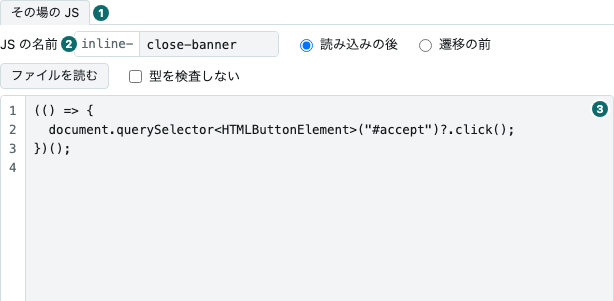
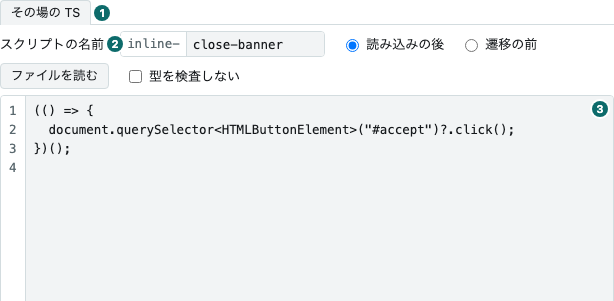
fix: 箱の名前を「その場の TS」「スクリプトの名前」にする（CAPTURE-83） (#66)
新しいクロールの画面の箱は、compile の段で strict の TypeScript として検査されるのに、
「その場の JS」「JS の名前」と名乗っていた。TypeScript を書けると気づけず、素の JS を
書くと TS7006 で落ちて理由が読めなかった。

- 画面の字（タブ・欄・aria-label・注記・「書きかけの TS」）と、docs・コメント・試験の名前を
  替えた。動きと API の欄、コードの名前（start-tab-js・.start-js）は変えない
- JS になるのは変換の後なので、走った JS・変換後の JS・束ねた JS・dashboard 自身の素の JS は
  そのまま
- check:terms に規則 8 を足し、古い呼び名を赤にする
- 絵を撮り直した（start-js・start-rules・start-read と shots.json）

Claude-Session: https://claude.ai/code/session_01TRqfaPZ6gSV5QQNmn7s8EV

Changed region(s): [[0.0, 0.0897, 0.4642, 0.2093], [0.4642, 0.0897, 0.8974, 0.2093], [0.0928, 0.0, 0.1857, 0.0598]]

diff --git a/public/app.js b/public/app.js
@@ -313,11 +313,11 @@ const ranOf = (one) => {
     item.append(tag("span", script.id, "mono"));
     if (script.sites.length > 0) item.append(siteChip(script.sites));
     item.append(tag("span", where, "muted"));
-    // その場の JS は、直して撮り直せるように欄へ戻せる（台帳のスクリプトは台帳に在る）。source は詳しい所に
+    // その場の TS は、直して撮り直せるように欄へ戻せる（台帳のスクリプトは台帳に在る）。source は詳しい所に
     // 無いので、押したときに名前の口から取る
     if (script.inline !== undefined) {
       item.append(button("欄に戻す", () => void putBack(one.crawlId, script.inline.name)));
-      // 型の誤りの在るその場の JS には、直し方を訊く道も（押したときだけ Claude を呼ぶ）
+      // 型の誤りの在るその場の TS には、直し方を訊く道も（押したときだけ Claude を呼ぶ）
       if (hasErrorsIn(one.diagnosed, script.id)) item.append(...fixOf(one.crawlId, script));
     } else {
       // 走った版を読む。番号は使い回されうるので sha256 の頭も渡し、読む所が食い違いを言う
@@ -999,7 +999,7 @@ const drawValues = () => {
 };
 
 /**
- * その場の JS を欄に戻し、新しいクロールの画面へ移る。直して撮り直すため。**起点とスクリプトの選びは触らない。**
+ * その場の TS を欄に戻し、新しいクロールの画面へ移る。直して撮り直すため。**起点とスクリプトの選びは触らない。**
  * source は詳しい所に無い（capture-ledger v0.59.0）ので、名前の口から取る。
  */
 const putBack = async (crawlId, name) => {
@@ -1014,14 +1014,14 @@ const putBack = async (crawlId, name) => {
 };
 
 /**
- * その場の JS を新しいクロールの画面の欄に入れ、その画面へ移る。「欄に戻す」と「直した版を欄に戻す」が使う
+ * その場の TS を新しいクロールの画面の欄に入れ、その画面へ移る。「欄に戻す」と「直した版を欄に戻す」が使う
  * （直した版は、名前と phase を元のまま、source だけを直した物にする）。**起点とスクリプトの選びは触らない。**
  */
 const intoForm = (name, phase, source) => {
   $("start-inline-name").value = name;
   $(phase === "preload" ? "start-inline-preload" : "start-inline-behavior").checked = true;
   $("start-inline-source").value = source;
-  $("start-answer").hidden = true; // 前の答えは、戻した JS の物ではない
+  $("start-answer").hidden = true; // 前の答えは、戻した TS の物ではない
   location.hash = "start";
   // 画面とタブを今出す —— 隠れた箱には focus が効かない（hashchange が画面を出すのは、この後）
   show("start");
@@ -1305,7 +1305,7 @@ const startCrawl = async (event) => {
   line.hidden = false;
   line.className = `start-answer state ${said.kind}`;
   line.textContent = said.text;
-  // 起点は消す。その場の JS は残す —— 直して撮り直すことが多い。サイト用のチェックは起点に合わせる
+  // 起点は消す。その場の TS は残す —— 直して撮り直すことが多い。サイト用のチェックは起点に合わせる
   if (status === 202) {
     $("start-seeds").value = "";
     syncPicks();
@@ -2001,7 +2001,7 @@ const askReplace = (at, doc, lines) => {
   const box = at.ask;
   box.hidden = false;
   box.replaceChildren(
-    tag("span", `新しいクロールの欄に書きかけの JS（${count(lines)} 行）があります。`),
+    tag("span", `新しいクロールの欄に書きかけの TS（${count(lines)} 行）があります。`),
     button("置き換える", () => {
       box.hidden = true;
       putTemplate(doc, { replace: true, at });
@@ -2013,7 +2013,7 @@ const askReplace = (at, doc, lines) => {
 };
 
 /**
- * スクリプトの 1 版を、その場の JS の欄に写して新しいクロールの画面へ移る。**書きかけを黙って消さない** —— 欄が空で
+ * スクリプトの 1 版を、その場の TS の欄に写して新しいクロールの画面へ移る。**書きかけを黙って消さない** —— 欄が空で
  * なければ、置き換えるかを本文の上で訊く（replace は「置き換える」を押したときだけ true。訊くのは at の所）。
  * 入れ方は「欄に戻す」（intoForm）と同じ。
  */
@@ -2041,10 +2041,10 @@ const putTemplate = (doc, { replace = false, at = IN_CATALOG } = {}) => {
       ? "id を替える所はありませんでした。"
       : `${changed.join("・")} 行目の id を inline-${name} に替えました。`) +
     `台帳の ${doc.id} は外しました（両方走ると 2 回走ります）。` +
-    // その場の JS は札を持たない。スクリプトの冒頭の見分けが、ほかのサイトでは何もさせない
+    // その場の TS は札を持たない。スクリプトの冒頭の見分けが、ほかのサイトでは何もさせない
     (doc.sites.length === 0
       ? ""
-      : `札（${doc.sites.join("・")}）は写しに付きません。その場の JS は、どの起点でも走ります。`);
+      : `札（${doc.sites.join("・")}）は写しに付きません。その場の TS は、どの起点でも走ります。`);
   location.hash = "start";
   // 画面とタブを今出す —— 隠れた箱には focus が効かない（hashchange が画面を出すのは、この後）。
   // 読む窓は閉じない —— タブで元と見比べられる
@@ -2073,7 +2073,7 @@ const clearPlace = (at) => {
 };
 
 /**
- * 右の列のタブ。**JS の箱は隠すだけ** —— 書きかけも、流した位置も、字の位置も残る（Chrome 152 で実測）。
+ * 右の列のタブ。**TS の箱は隠すだけ** —— 書きかけも、流した位置も、字の位置も残る（Chrome 152 で実測）。
  * 読む窓のタブと × は、何か開いている間だけ出る。
  */
 const showStartTab = (tab) => {

diff --git a/public/index.html b/public/index.html
@@ -48,13 +48,13 @@
       </section>
 
       <!--
-        新しいクロールの画面。左に設定、右にその場の JS。画面は窓の高さに収め、JS の箱がその残りを全部使う
+        新しいクロールの画面。左に設定、右にその場の TS。画面は窓の高さに収め、TS の箱がその残りを全部使う
         （巨大な JS を貼って、読んで、少し直して始めるため）。送るのは起点の URL・「このページだけ
         （maxDepth: 0）」・走らせるもので、ほかは台帳の既定。走らせるものは、既定のまま（起点で決まる
-        既定の顔ぶれを全部選び、その場の JS が空）なら送らない。URL も JS の名前も検査しない（台帳が 400 で言う）。
+        既定の顔ぶれを全部選び、その場の TS が空）なら送らない。URL もスクリプトの名前も検査しない（台帳が 400 で言う）。
         本文が上限（/healthz の writeLimit）を超えたら、送る前に止める。答えは左の列の下に 1 行で。
-        202 と 409 は一覧の画面へ移り、行に印を付ける。右の列はタブで、その場の JS と読む窓（スクリプトの 1 版か
-        受け皿の型を、チェックの横の「読む」で開く）を切り替える。画面は移らず、JS の箱は隠れるだけ。
+        202 と 409 は一覧の画面へ移り、行に印を付ける。右の列はタブで、その場の TS と読む窓（スクリプトの 1 版か
+        受け皿の型を、チェックの横の「読む」で開く）を切り替える。画面は移らず、TS の箱は隠れるだけ。
       -->
       <section id="face-start" hidden>
         <form id="start" class="start" autocomplete="off">
@@ -97,15 +97,15 @@
             </div>
             <p id="start-answer" class="start-answer" hidden></p>
             <!--
-              書き方の注意は左に置く。右の列の高さは、全部 JS の箱に渡す。JS の名前の綴りは台帳の決まりの写し
+              書き方の注意は左に置く。右の列の高さは、全部 TS の箱に渡す。スクリプトの名前の綴りは台帳の決まりの写し
               （capture-ledger の POST /api/crawls・inline.name）で、dashboard は検査しない（違えば台帳が 400 で言う）
             -->
             <p class="start-hint">
               strict の TypeScript として型を検査します（最初の段の compile）。IIFE で包み、要素には型を付けて
               <code>?.</code> で。束ねた JS は「型を検査しない」で（1 行目に <code>// @ts-nocheck</code> が入る）。
-              <code>export</code> は書かない（ページで構文エラーになり、何も走らない）。その場の JS は、チェックしたスクリプトより先に走ります。
-              JS の名前（<code>inline-</code> の後ろ）は、英小文字で始め、英小文字・数字・<code>-</code> で 57 字まで。
-              <code>inline-</code> を付けた物がこの JS の id になります。
+              <code>export</code> は書かない（ページで構文エラーになり、何も走らない）。その場の TS は、チェックしたスクリプトより先に走ります。
+              スクリプトの名前（<code>inline-</code> の後ろ）は、英小文字で始め、英小文字・数字・<code>-</code> で 57 字まで。
+              <code>inline-</code> を付けた物がこのスクリプトの id になります。
               <!-- data-read: ふつうに押せば右の列で開く（app.js）。修飾キーならスクリプト集の画面を別のタブで -->
               <a href="#scripts/types/host.d.ts" data-read>受け皿 <code>__bh</code> の型を読む</a>
             </p>
@@ -113,14 +113,14 @@
           <div class="start-code">
             <!-- 右の列のタブ。読む窓のタブと × は、スクリプトの「読む」で開いている間だけ出る（app.js の showStartTab） -->
             <div class="start-tabs">
-              <button type="button" id="start-tab-js" class="on">その場の JS</button>
+              <button type="button" id="start-tab-js" class="on">その場の TS</button>
               <button type="button" id="start-tab-rules" hidden>辿り方</button>
               <button type="button" id="start-tab-read" hidden></button>
               <button type="button" id="start-tab-close" aria-label="読む窓を閉じる" hidden>×</button>
             </div>
             <div id="start-js" class="start-js">
               <div class="start-row">
-                <label for="start-inline-name">JS の名前</label>
+                <label for="start-inline-name">スクリプトの名前</label>
                 <span class="start-name"
                   ><span class="prefix">inline-</span
                   ><input type="text" id="start-inline-name" spellcheck="false" placeholder="close-banner"
@@ -140,7 +140,7 @@
                   id="start-inline-source"
                   wrap="off"
                   spellcheck="false"
-                  aria-label="その場の JS"
+                  aria-label="その場の TS"
                   placeholder="(() => {&#10;  document.querySelector&lt;HTMLButtonElement&gt;(&quot;#accept&quot;)?.click();&#10;})();"
                 ></textarea>
               </div>

diff --git a/public/start.js b/public/start.js
@@ -8,7 +8,7 @@
  * 片方だけが変わった日に、dashboard が通すのに台帳が断る（または逆）形になる。
  */
 
-/** 走らせるものの欄が、何も選んでいない形（台帳にスクリプトが無く、その場の JS も無い）。 */
+/** 走らせるものの欄が、何も選んでいない形（台帳にスクリプトが無く、その場の TS も無い）。 */
 const NOTHING_CHOSEN = {
   catalog: [],
   picked: [],
@@ -53,10 +53,10 @@ export const defaultIds = (scripts, hosts) =>
 
 /**
  * 走らせるもの（台帳の `scripts`）。**既定のまま —— 選んだ物が既定の顔ぶれ（`defaultIds`）と同じで、
- * その場の JS が空 —— なら送らない**（`undefined`）。台帳も起点から同じ物を選ぶので、省いても走る物は
+ * その場の TS が空 —— なら送らない**（`undefined`）。台帳も起点から同じ物を選ぶので、省いても走る物は
  * 変わらない。省くのは、台帳にスクリプトが無いときと、起点に合う物が無いときの 400 を台帳に言わせるため。
  *
- * 送るときは、その場の JS を先に、選んだスクリプトを台帳の並び（`catalog` の順）で。全部外せば `[]` ——
+ * 送るときは、その場の TS を先に、選んだスクリプトを台帳の並び（`catalog` の順）で。全部外せば `[]` ——
  * 「何も走らせない」。source は削らない —— 台帳が打つ sha256 は、書いたバイト列の物。名前は前後の
  * 空白だけ落とす。綴りは検査しない（台帳が 400 で言う）。
  */
@@ -303,7 +303,7 @@ export const startAnswer = (status, answer) => {
       ? answer.names
       : Array.isArray(answer.secrets)
         ? answer.secrets.map((s) => (s.path === undefined ? String(s.name) : `${String(s.name)}（${String(s.path)}）`))
-        : typeof answer.script === "string" // 宣言の形が読めないその場の JS（invalid params）
+        : typeof answer.script === "string" // 宣言の形が読めないその場の TS（invalid params）
           ? [answer.script]
           : Array.isArray(answer.seeds)
             ? answer.seeds
@@ -326,7 +326,7 @@ export const startAnswer = (status, answer) => {
 export const bodyBytes = (body) => new TextEncoder().encode(JSON.stringify(body)).length;
 
 /**
- * 欄の下の 1 行。行数は JS の、割合は送る本文の。**上限を超えたら押せない**（over）。
+ * 欄の下の 1 行。行数は TS の、割合は送る本文の。**上限を超えたら押せない**（over）。
  * 上限は `/healthz` の `writeLimit`（dashboard が知らなければ Infinity を渡し、門に任せる）。
  */
 export const sizeOf = (source, bytes, limit) => ({
@@ -354,8 +354,8 @@ export const withNocheck = (source, on) => {
 };
 
 /**
- * スクリプト 1 本を、その場の JS の下敷きにする（スクリプト集の画面の「下敷きにする」）。**替えるのは 1 つの
- * 形だけ** —— `__bh.opts["<id>"]` の id を `inline-<名前>` に。台帳はその場の JS を `inline-<名前>` の id で
+ * スクリプト 1 本を、その場の TS の下敷きにする（スクリプト集の画面の「下敷きにする」）。**替えるのは 1 つの
+ * 形だけ** —— `__bh.opts["<id>"]` の id を `inline-<名前>` に。台帳はその場の TS を `inline-<名前>` の id で
  * 走らせ、設定もその id の下に置くので、替えないと元の id の設定を読む。報告（`__bh.report(data)`）とログの行は
  * id を取らない —— 誰の行かは BrowserHive が付ける（capture-scripts v0.7.0 の受け皿から）。
  *

diff --git a/public/app.css b/public/app.css
@@ -546,7 +546,7 @@ tr.head.spot td:first-child {
   box-shadow: inset 3px 0 0 var(--accent);
 }
 
-/* ── 新しいクロールの画面 ── 左に設定、右にその場の JS。窓の高さに収め、ページは縦に流さない ─ */
+/* ── 新しいクロールの画面 ── 左に設定、右にその場の TS。窓の高さに収め、ページは縦に流さない ─ */
 /* 収めるのは新しいクロールの画面にいる間だけ（app.js の show が body に data-face を書く） */
 body[data-face="start"] {
   height: 100dvh;
@@ -591,7 +591,7 @@ body[data-face="start"] main {
 }
 
 /*
- * 右の列: タブと、その下の中身 1 つ（その場の JS か読む窓）。中身が残りの高さを全部使う。列は右の列の幅に
+ * 右の列: タブと、その下の中身 1 つ（その場の TS か読む窓）。中身が残りの高さを全部使う。列は右の列の幅に
  * 留める —— 既定の auto の列は読む窓の長い行の幅まで伸び、本文が横に流れず窓の右端で切れた
  */
 .start-code {
@@ -605,7 +605,7 @@ body[data-face="start"] main {
 
 /*
  * display を書くと hidden 属性が効かなくなるので、隠すときを書き足す（.reading-ask と同じ）。
- * その場の JS と読む窓の見た目は class で書く —— id で書くと、id の重みがこの規則に勝ち、2 つが両方出る
+ * その場の TS と読む窓の見た目は class で書く —— id で書くと、id の重みがこの規則に勝ち、2 つが両方出る
  */
 .start-js[hidden],
 .start-read[hidden],
@@ -613,7 +613,7 @@ body[data-face="start"] main {
   display: none;
 }
 
-/* その場の JS: 名前・口・ファイル・型の行、箱（残りの高さを全部）、大きさの行 */
+/* その場の TS: 名前・口・ファイル・型の行、箱（残りの高さを全部）、大きさの行 */
 .start-js {
   display: grid;
   grid-template-rows: auto minmax(0, 1fr) auto;
@@ -888,7 +888,7 @@ body[data-face="start"] main {
   cursor: pointer;
 }
 
-/* 走らせるもの: スクリプトのチェックと、その場の JS（名前・口・コード・ファイルを読む） */
+/* 走らせるもの: スクリプトのチェックと、その場の TS（名前・口・コード・ファイルを読む） */
 .start-run {
   display: flex;
   flex-direction: column;

diff --git a/public/fix.js b/public/fix.js
@@ -6,7 +6,7 @@
  *
  * - `GET /api/crawls/:id/diagnostics` —— 行に固定した組み合わせを ts-compile-service に送り直した型の誤り。
  *   Claude は呼ばない。台帳が ts-compile の宛先を持たない配備には、口ごと無い（Fastify の 404）
- * - `POST /api/crawls/:id/inline/:name/fix` —— その場の JS の直し方を Claude に訊く。**検査に通った案だけ**が
+ * - `POST /api/crawls/:id/inline/:name/fix` —— その場の TS の直し方を Claude に訊く。**検査に通った案だけ**が
  *   200 で返り、Claude を呼んだ答えには回数と費用が載る
  *
  * 台帳の文（`error`）は言い換えない。状態の数と一緒に、そのまま出す。

diff --git a/docs-site/src/content/docs/ja/development.md b/docs-site/src/content/docs/ja/development.md
@@ -91,14 +91,14 @@ dashboard が読む設定は `sandbox/sandbox.env` だけで、あなたの `.en
 | スクリプトを変える | 台本の `catalog` を書き換える。1 版に 1 つで、`sandbox/catalog/` のファイル（capture-scripts v0.7.0 のスクリプトと受け皿の型の写し）を名指す。`sha256` と `bytes` は代役が台帳と同じくファイルから数え、一覧は各 id に 1 行（有効な版の中の最新、無ければ最新版を `enabled: false` で）。autoscroll v2 は同じファイルで `options` だけが違う版。autofetch は `enabled: false` —— カタログに `"default": false` と書いたスクリプトを台帳が持つ姿で、名指したときだけ走る。`sites`（札）のある版はサイト用のスクリプトで、既定で走るのは起点のどれかが札のホストにあるときだけ。`egov-law-search`（札 `laws.e-gov.go.jp`）も capture-scripts の写しで、本物の台帳と同じ版。版の `params` は宣言（capture-scripts の `catalog.json` の `params`）で、一覧と 1 版の口に出る —— `egov-law-search` は変数 `query` を宣言する。`hostTypes` は受け皿の型で、消すと型を取り込んでいない台帳になる。写しは `check:terms` から外してある（別の repo の言葉で、直すと行番号が実物とずれる） |
 | 別の WACZ を並べる | `SANDBOX_WACZ_DIR=<dir> npm run sandbox`（相対なら、この repo から。例: `../wacz-validator/samples`）。代役と daemon の両方に同じ置き場が入る |
 | wacz-validator の更新を daemon に入れる | `npm run sandbox:build`。`npm run sandbox` は、image が無いときにしか建てない |
-| 新しいクロールの画面を試す | 新しいクロールの画面から始める。代役は受けた行を台本の `submit.runsSeconds` 秒だけ走らせてから完走にする。走っている間にもう 1 度押すと 409、読めない URL は 400。走らせるもの（スクリプトのチェックとその場の JS）も台帳と同じ形で受け、知らないスクリプトの id・同じ id の重ね・名前の綴り・起点に合わないサイト用のスクリプトの名指し・既定が空（台帳にスクリプトが無いか、全部が別のサイト用）は台帳と同じ文で 400。台帳の schema に無い鍵も台帳と同じ文（`body must NOT have additional properties`）で 400。行を開くと走らせたものが出る。チェックの横の「読む」は右の列に開く（代役の autoscroll は v2 で設定つき、egov-law-search は起点に laws.e-gov.go.jp が無いと押せないが読める） |
-| クロールごとの値を試す | 起点に `https://laws.e-gov.go.jp/` を書いて egov-law-search を選ぶと、変数 `query` の欄が出る。書いた値は `variables` で送られ、行を開くと「渡した値」に出る。代役は台帳 v0.67.0 と同じ順と文で 400 を言う —— 同じ名前を別の種類で宣言している（`conflicting params`）・必須の変数が無い（`missing variables`）・シークレットの名前を変数で渡している（`secrets cannot be passed as variables`）・どのスクリプトも宣言していない変数（`unknown variables`。宣言を添えないその場の JS が在れば許す）・宣言した必須のシークレットが Windmill に無い（`unknown secrets`。名前と path と `hint`）・在るが secret でない（`not a secret variable`）。その場の JS の宣言の形は台帳の schema と同じ文で、同じ名前が 2 度あれば `invalid params`。Windmill の代わりは台本の `windmillSecrets`（在る secret 変数の名前）と `windmillVariables`（在るが secret でない名前）。シークレットの宣言は、その場の JS の `inline.params` を台帳の API に直に送るときだけ試せる（画面には欄が無い）。台本のクロール `5b0c0007` は変数 `query` とシークレット `api_token` を持ち、開いた行に「渡した値」と「使ったシークレット」が出る。値は代役もどこにも書かない |
+| 新しいクロールの画面を試す | 新しいクロールの画面から始める。代役は受けた行を台本の `submit.runsSeconds` 秒だけ走らせてから完走にする。走っている間にもう 1 度押すと 409、読めない URL は 400。走らせるもの（スクリプトのチェックとその場の TS）も台帳と同じ形で受け、知らないスクリプトの id・同じ id の重ね・名前の綴り・起点に合わないサイト用のスクリプトの名指し・既定が空（台帳にスクリプトが無いか、全部が別のサイト用）は台帳と同じ文で 400。台帳の schema に無い鍵も台帳と同じ文（`body must NOT have additional properties`）で 400。行を開くと走らせたものが出る。チェックの横の「読む」は右の列に開く（代役の autoscroll は v2 で設定つき、egov-law-search は起点に laws.e-gov.go.jp が無いと押せないが読める） |
+| クロールごとの値を試す | 起点に `https://laws.e-gov.go.jp/` を書いて egov-law-search を選ぶと、変数 `query` の欄が出る。書いた値は `variables` で送られ、行を開くと「渡した値」に出る。代役は台帳 v0.67.0 と同じ順と文で 400 を言う —— 同じ名前を別の種類で宣言している（`conflicting params`）・必須の変数が無い（`missing variables`）・シークレットの名前を変数で渡している（`secrets cannot be passed as variables`）・どのスクリプトも宣言していない変数（`unknown variables`。宣言を添えないその場の TS が在れば許す）・宣言した必須のシークレットが Windmill に無い（`unknown secrets`。名前と path と `hint`）・在るが secret でない（`not a secret variable`）。その場の TS の宣言の形は台帳の schema と同じ文で、同じ名前が 2 度あれば `invalid params`。Windmill の代わりは台本の `windmillSecrets`（在る secret 変数の名前）と `windmillVariables`（在るが secret でない名前）。シークレットの宣言は、その場の TS の `inline.params` を台帳の API に直に送るときだけ試せる（画面には欄が無い）。台本のクロール `5b0c0007` は変数 `query` とシークレット `api_token` を持ち、開いた行に「渡した値」と「使ったシークレット」が出る。値は代役もどこにも書かない |
 | 規則を試す | 新しいクロールの画面で「リンクを辿る」を選ぶ。代役は台帳 v0.62.0 と同じく規則を確かめる（同じ 3 つの 400 を同じ文で、`/api/crawl-rules/check` も同じ答え）し、`/api/crawls/:id/decisions` にも答える。台本のクロール `5b0c0007` は `rules`・`decisions`・`robots` を持ち、1 度も当たらない規則が 1 本ある。**`same-site` は近似**: 代役は Public Suffix List を持たず、ホスト名の最後の 2 ラベルをサイトとする。だから `example.co.jp` と `other.co.jp` を同じサイトと読む（台帳は tldts で、そう読まない） |
 | ページとログを見る | 台本のクロールに `pages` を書く（ページの行と、BrowserHive の答えの形の `log`。`counts` は省けば行から数える）。代役は台帳の `/api/crawls/:id/pages`（`after` と `limit`。続きは本文の `next`）と `/api/crawls/:id/pages/:page/log` に答え、`failures` の要素に `page` を付ける。`after` が数字だけでない・`limit` が範囲の外なら 400。`log` の無いページは、ログを読めない理由を返す（台本の `logReason`。省けば taskId の無いページは `not-captured`、在れば `no-log`）。台本のクロール `5b0c0009` は、時間切れのページ（warn と error の行）・捨てた行と途中で切った行を持つページ・robots.txt で撮らなかったページを持つ。`pages` の無い行は一覧が空。「続きを読む」を見るなら、行に台帳の 1 回分より多いページを書く（代役の 1 回分は台帳と同じ既定で、`sandbox/fake-ledger.mjs` の `pageList` に在る） |
-| 走らせたものの在る行を見る | 台本のクロールに `scripts` を書く（その場の物は `inline` つき）。同梱の台本には、その場の JS で完走した行と、compile の段で落ちた行が在る。代役も台帳と同じく、1 本の詳しい所には source を載せず、「欄に戻す」は名前の口（`/api/crawls/:id/inline/:name`）から取る。クロール `5b0c0008` の autoscroll の `sha256` はわざと台帳の v1 と違えてあり、版の番号が使い回されたときに、クロールの「読む」が出す知らせを見られる |
+| 走らせたものの在る行を見る | 台本のクロールに `scripts` を書く（その場の物は `inline` つき）。同梱の台本には、その場の TS で完走した行と、compile の段で落ちた行が在る。代役も台帳と同じく、1 本の詳しい所には source を載せず、「欄に戻す」は名前の口（`/api/crawls/:id/inline/:name`）から取る。クロール `5b0c0008` の autoscroll の `sha256` はわざと台帳の v1 と違えてあり、版の番号が使い回されたときに、クロールの「読む」が出す知らせを見られる |
 | 検索を試す | 検索の画面で語を打つ（同梱の台本では「ランプ」で 2 件）。代役は台本の `searchPages`（アーカイブごとのページ一覧の行。`stage` の無い行が文書の行）から、台帳と同じ決まりで答える —— 写しの行が在るアーカイブでは写しの行だけを引き、`hidden` のアーカイブは出さない。**代役は OpenSearch を持たない**: 題か本文に語を含む行を拾うだけで、点数も分かち書きも無い。`q` が無い・空・ほかの欄があれば、台帳の schema と同じ文で 400 |
 | クロールの合本を見る | 台本のクロール `5b0c0009` を開く。行の run ↗ の隣に replay ↗ が出て、ページの表では撮れたページの結末の後ろに replay ↗ が付く（行の `replayBundle` は r2、ページの `bundledRev` は 1 と 2）。時間切れのページと robots.txt で撮らなかったページには付かない。`5b0c0003` は r2 の次の版を書けなかった行（replay ↗ は r2 を開き、開いた行が理由を言う）、`5b0c0002` は 1 度も書けなかった行（replay ↗ が出ず、開いた行が理由を言う）。台本の行に `replayBundle`（`rev`・`pages`・`builtAt`・`error`。失敗だけの行は `rev` を省く）を、ページに `capturedAt` と `bundledRev` を書く。鍵は代役が台帳と同じ形（`org/<orgId>/crawls/<crawlId>/r<rev>/replay.json`）に組む。**代役は合本を書かない** —— replay ↗ の先には何も無い |
-| 直し方を訊く | クロール `5b0c0008`（型の検査で落ちた行）を開く。代役は `/api/crawls/:id/diagnostics` に台本の行の `diagnosed`（台帳の答えそのまま。無い行は型を通る答え）で、`POST /api/crawls/:id/inline/:name/fix` に `fixes`（その場の JS の名前ごとの `{ status, body }`）で答える。**代役は Claude を呼ばない** —— `fixes` に無い名前は 404。`5b0c0008` は TS7006 の 1 件と、検査に通った直し（2〜3 行目。直した版は TypeScript 6.0.3 の strict で通る）を持つ。ほかの答えを見るなら、`fixes` に 429 や 422 の `status` と台帳の本文を書く |
+| 直し方を訊く | クロール `5b0c0008`（型の検査で落ちた行）を開く。代役は `/api/crawls/:id/diagnostics` に台本の行の `diagnosed`（台帳の答えそのまま。無い行は型を通る答え）で、`POST /api/crawls/:id/inline/:name/fix` に `fixes`（その場の TS の名前ごとの `{ status, body }`）で答える。**代役は Claude を呼ばない** —— `fixes` に無い名前は 404。`5b0c0008` は TS7006 の 1 件と、検査に通った直し（2〜3 行目。直した版は TypeScript 6.0.3 の strict で通る）を持つ。ほかの答えを見るなら、`fixes` に 429 や 422 の `status` と台帳の本文を書く |
 
 代役にできないこともあります。
 

diff --git a/docs-site/src/content/docs/screens.md b/docs-site/src/content/docs/screens.md
@@ -196,10 +196,10 @@ follow).
 ③ クロールごとの値 (per-crawl values): the fields for the variables the ticked scripts declare\
 ④ 始める (start)
 
-![The right column of the new crawl view: the tab その場の JS, the name of the script, when it runs, and the script box](../../assets/screens/start-js.webp)
+![The right column of the new crawl view: the tab その場の TS, the name of the script, when it runs, and the script box](../../assets/screens/start-js.webp)
 
 ① the right column's tabs\
-② JS の名前 (name of the script)\
+② スクリプトの名前 (name of the script)\
 ③ the script box
 
 - **It sends the seed URLs, whether the depth is 0, what runs — only when it differs from the
@@ -251,7 +251,7 @@ follow).
   it will send (UTF-8 bytes) and how much of the limit that is. The limit is the one the writing
   route enforces, handed out by the server as `writeLimit` in `/healthz`. Over it, the line turns
   red and 始める cannot be pressed.
-- **The name of your script becomes its id.** Write it in the box labelled JS の名前 (name of the
+- **The name of your script becomes its id.** Write it in the box labelled スクリプトの名前 (name of the
   script) in the right column. The `inline-` in front stays: `close-banner` gives the id
   `inline-close-banner`. Start with a lowercase letter, then use only lowercase letters, digits and
   `-`, up to 57 characters (the ledger's rule). This view does not check it: a wrong or empty name is
@@ -278,7 +278,7 @@ follow).
 - **A registered script can be read in the right column.** Press 読む (read) next to its checkbox:
   a second tab opens in the right column, named like `autoscroll v2`, with the source of that
   version in colour. The view does not change. The box is only hidden: your script, its scroll
-  position and the cursor stay, and the その場の JS (your script) tab brings it back. You can tick
+  position and the cursor stay, and the その場の TS (your script) tab brings it back. You can tick
   and untick while reading, and read a site script whose checkbox is disabled. One script is open
   at a time; another 読む replaces it, and × closes it. The window has 写す (copy), 下敷きにする
   (use as a template) and a link that opens the script in the [script collection view](#script-collection), which alone
@@ -326,7 +326,7 @@ follow).
   欄に戻す on a script of your own: this view opens with its name, phase and source. The source
   comes from the ledger's `/api/crawls/:id/inline/:name` (a crawl's detail only carries its size).
   The seed URLs and the ticked scripts are left alone. If the right column was showing a registered
-  script, it switches back to the その場の JS tab.
+  script, it switches back to the その場の TS tab.
 - **下敷きにする (use as a template) in the [script collection view](#script-collection) brings a registered script
   here** as a script of your own, named `my-<id>` unless the name box already has one. Only the form
   that names the script's own id, `__bh.opts["<id>"]` (where it reads its options), is changed to
@@ -334,7 +334,7 @@ follow).
   left column says on which lines. The original is unticked,
   so it does not run twice. If the box already holds a script, the script collection view asks before
   replacing it. 下敷きにする in the right column's reading window does the same, and asks inside
-  that window; afterwards the その場の JS tab is in front, and the reading window stays open for
+  that window; afterwards the その場の TS tab is in front, and the reading window stays open for
   comparing. A site script's sites do not come along: a script of your own runs from any seed,
   and the check at the top of the script (comparing `location.hostname`) keeps it idle on other
   sites.
